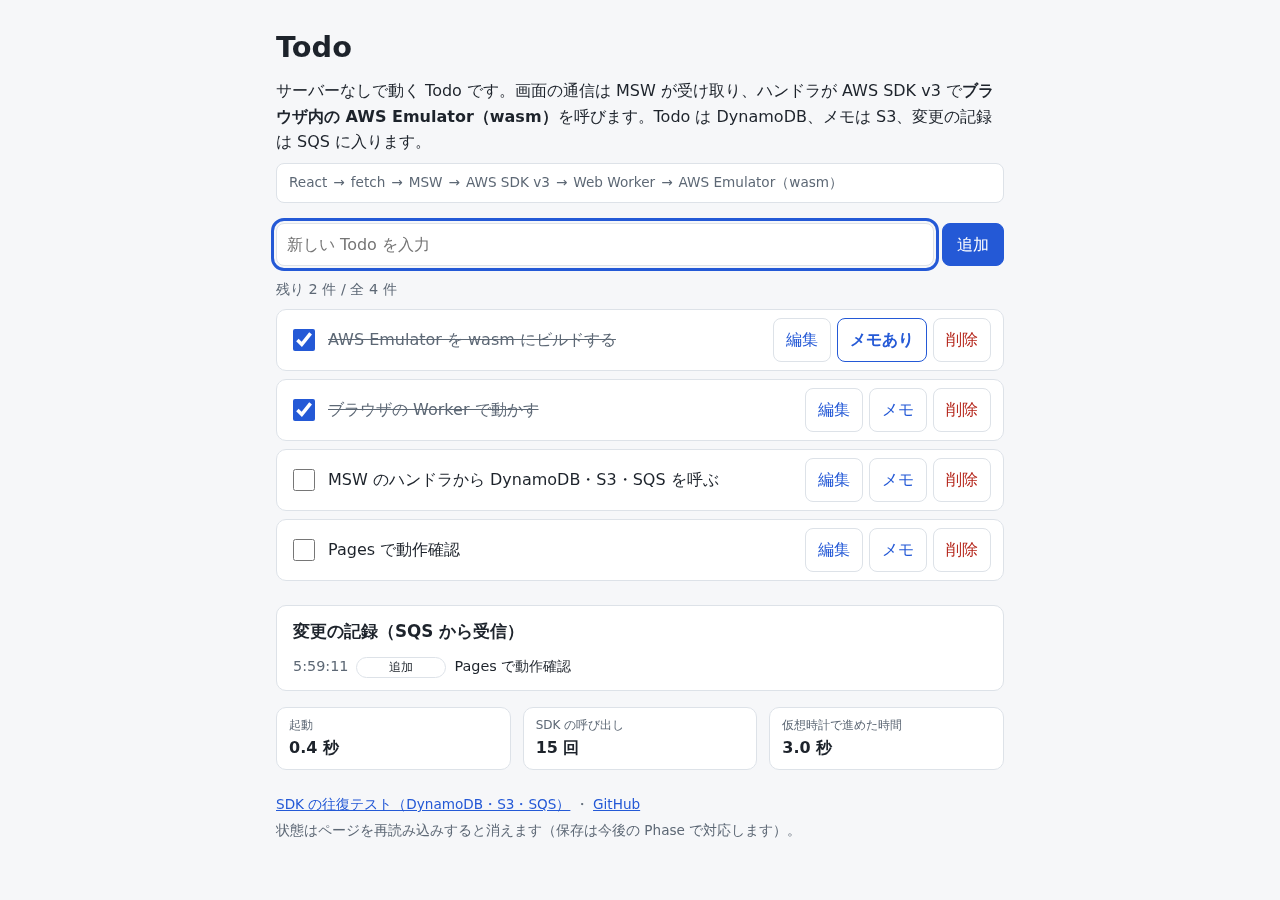
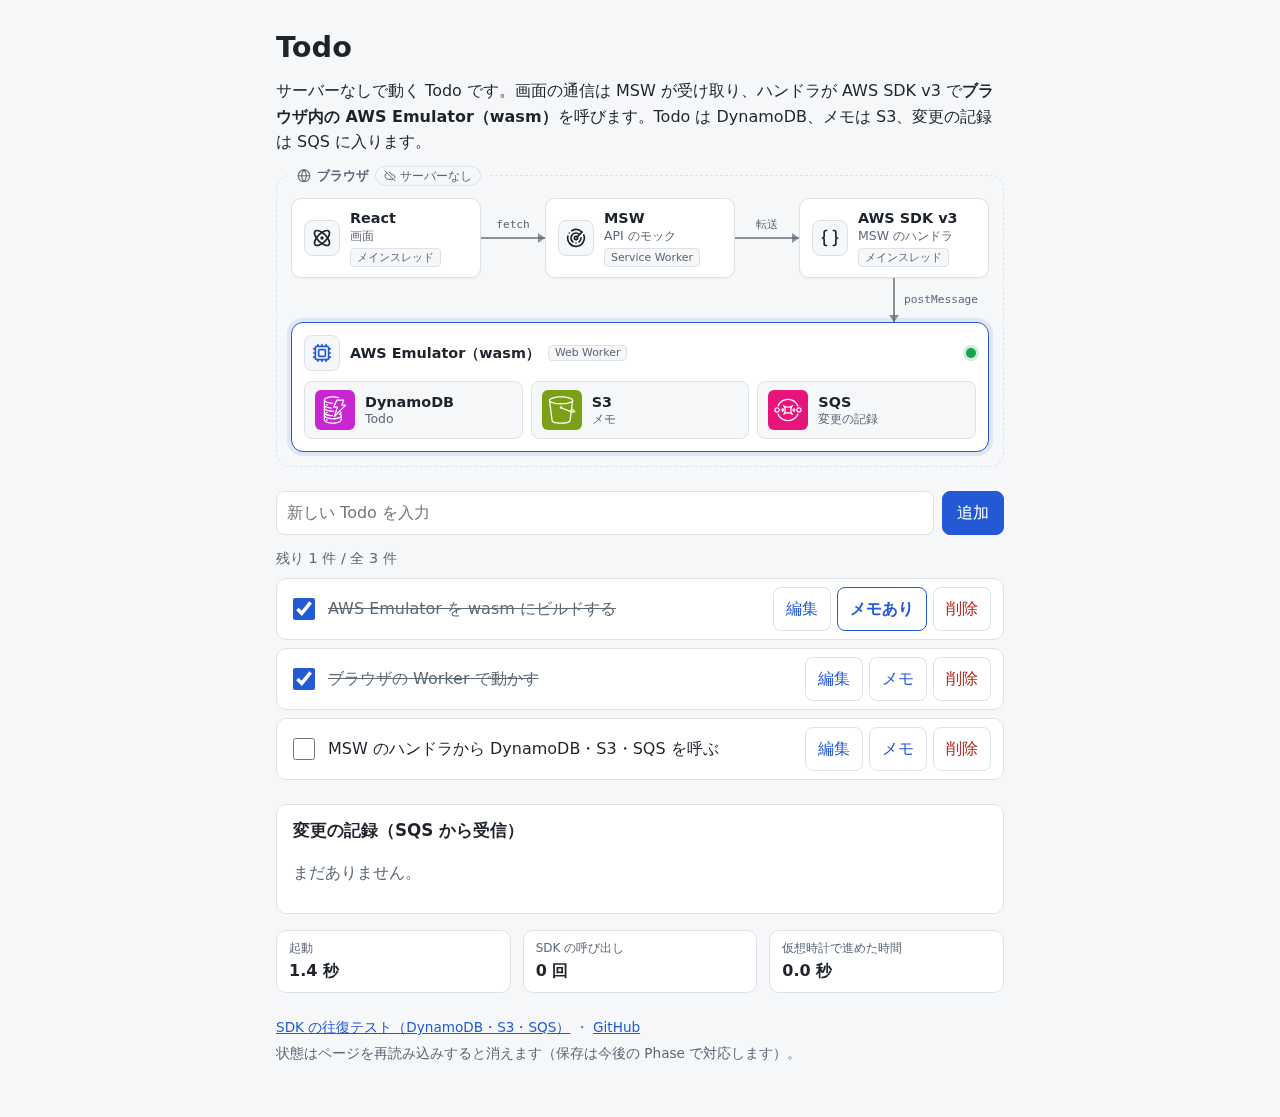
docs: refresh the Pages screenshots with the new architecture diagram

diff --git a/docs/phase1-report.md b/docs/phase1-report.md
@@ -122,7 +122,7 @@ Pixel 7 は Playwright のデバイス設定（画面サイズとタッチ）で
 | 通信先のホスト | `daisuke-awaji.github.io` だけ | 同じ |
 | ページの例外 | 0 件 | 0 件 |
 
-公開サイトの画面（左：デスクトップ、右：Pixel 7。Todo を 1 件追加した後）：
+公開サイトの画面（左：デスクトップ、右：Pixel 7。起動直後。2026-11-16 に構成図をアイコン付きに更新した後の画面）：
 
 <img src="./img/pages-desktop.png" alt="Todo デモ（デスクトップ）" width="560"> <img src="./img/pages-mobile.png" alt="Todo デモ（Pixel 7）" width="220">
 
